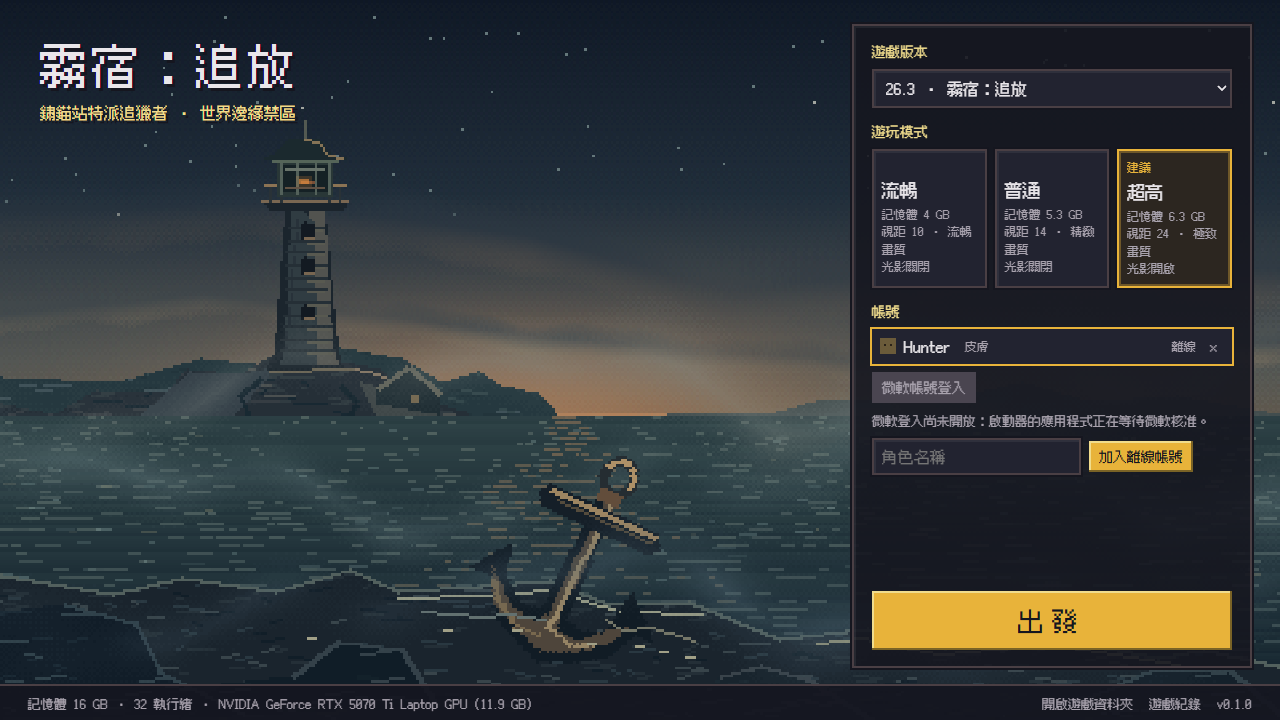
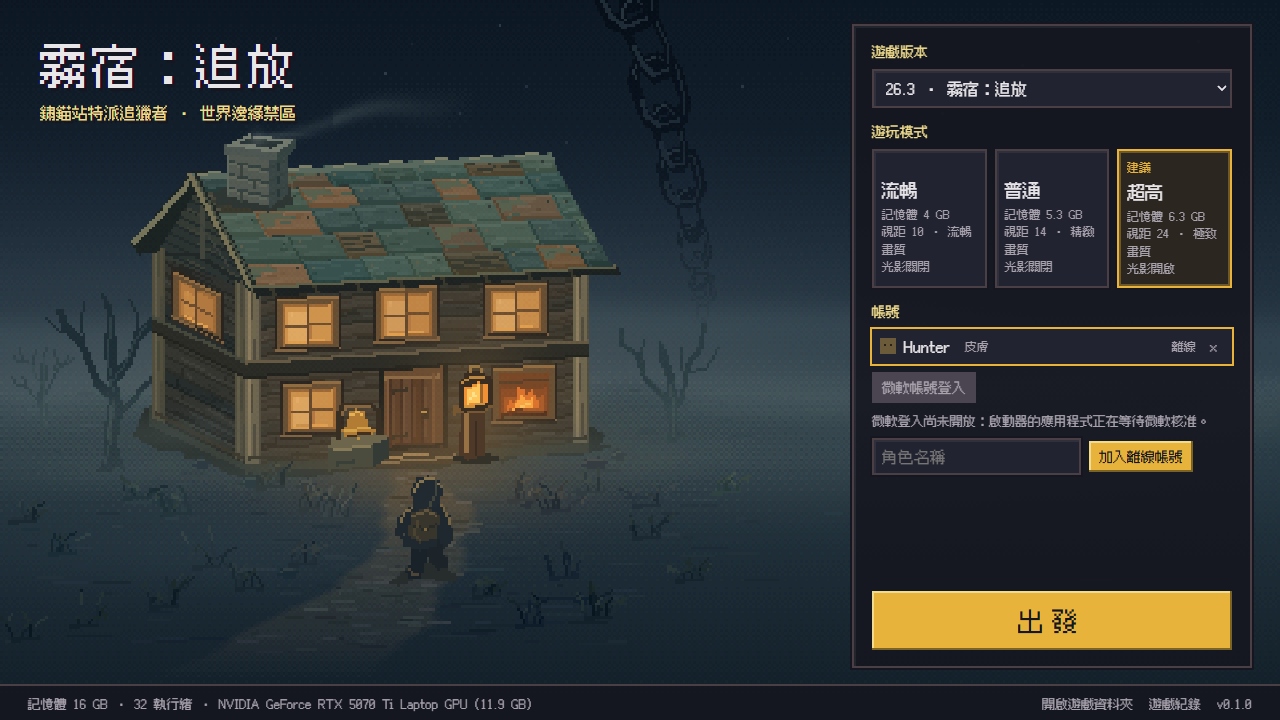
feat: 啟動器主頁換成自己的一張圖：夜霧裡的霧宿

diff --git a/src/style.css b/src/style.css
@@ -1,4 +1,4 @@
-/* 霧宿啟動器: pixel UI over the fog-shore scene. Colours come from the mod's palette:
+/* 霧宿啟動器: pixel UI over the Mist Inn in the fog. Colours come from the mod's palette:
    night sky, rust, salt and the gold of the bells. */
 @font-face {
   font-family: "Fusion Pixel";

diff --git a/docs/README.en.md b/docs/README.en.md
@@ -25,7 +25,7 @@
 
 Press **出發** (Go) and it downloads the game, Java, Fabric, Mistinn: Exile and a full set of performance mods, and tunes the settings to your computer.
 
-![The launcher: on the left the misty shore with its dark lighthouse and an anchor in the sea; on the right the game version, the three ways to play, the accounts and the Go button](images/launcher.png)
+![The launcher: on the left the Mist Inn at night in the fog, its windows lit, a hunter walking up the path to its door and Rust Anchor's chain hanging in the distance; on the right the game version, the three ways to play, the accounts and the Go button](images/launcher.png)
 
 The launcher's own interface is in Traditional Chinese.
 

diff --git a/README.md b/README.md
@@ -25,7 +25,7 @@
 
 按下「出發」，它會下載遊戲、Java、Fabric、《霧宿：追放》與一整套優化模組，並依你的電腦調好設定。
 
-![霧宿啟動器的畫面：左邊是霧中的海岸、熄燈的燈塔與海裡的錨，右邊是遊戲版本、三種遊玩模式、帳號與出發按鈕](docs/images/launcher.png)
+![霧宿啟動器的畫面：左邊是夜霧裡的霧宿，窗裡亮著燈，一個獵人正沿著小路走向門口，遠處垂著鏽錨站的錨鍊；右邊是遊戲版本、三種遊玩模式、帳號與出發按鈕](docs/images/launcher.png)
 
 ## 下載
 
